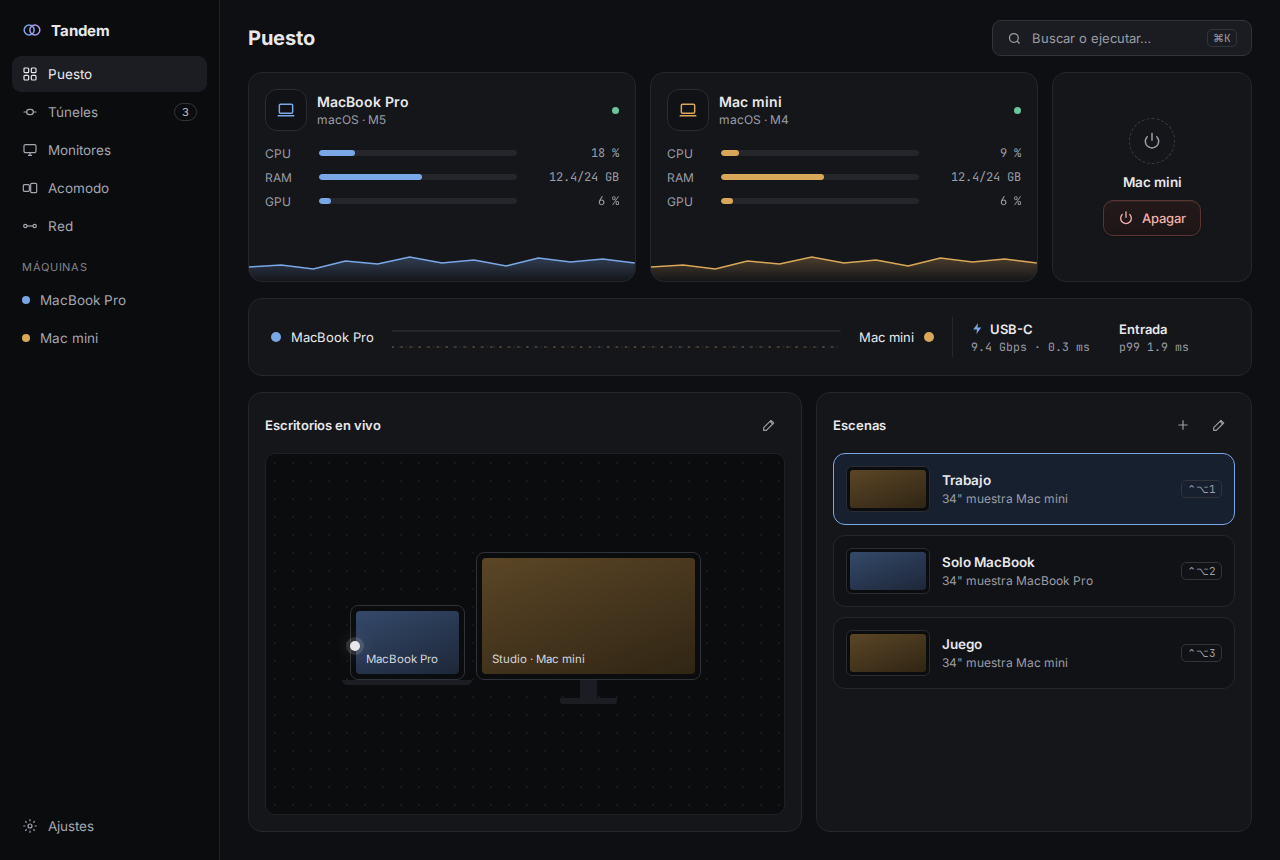
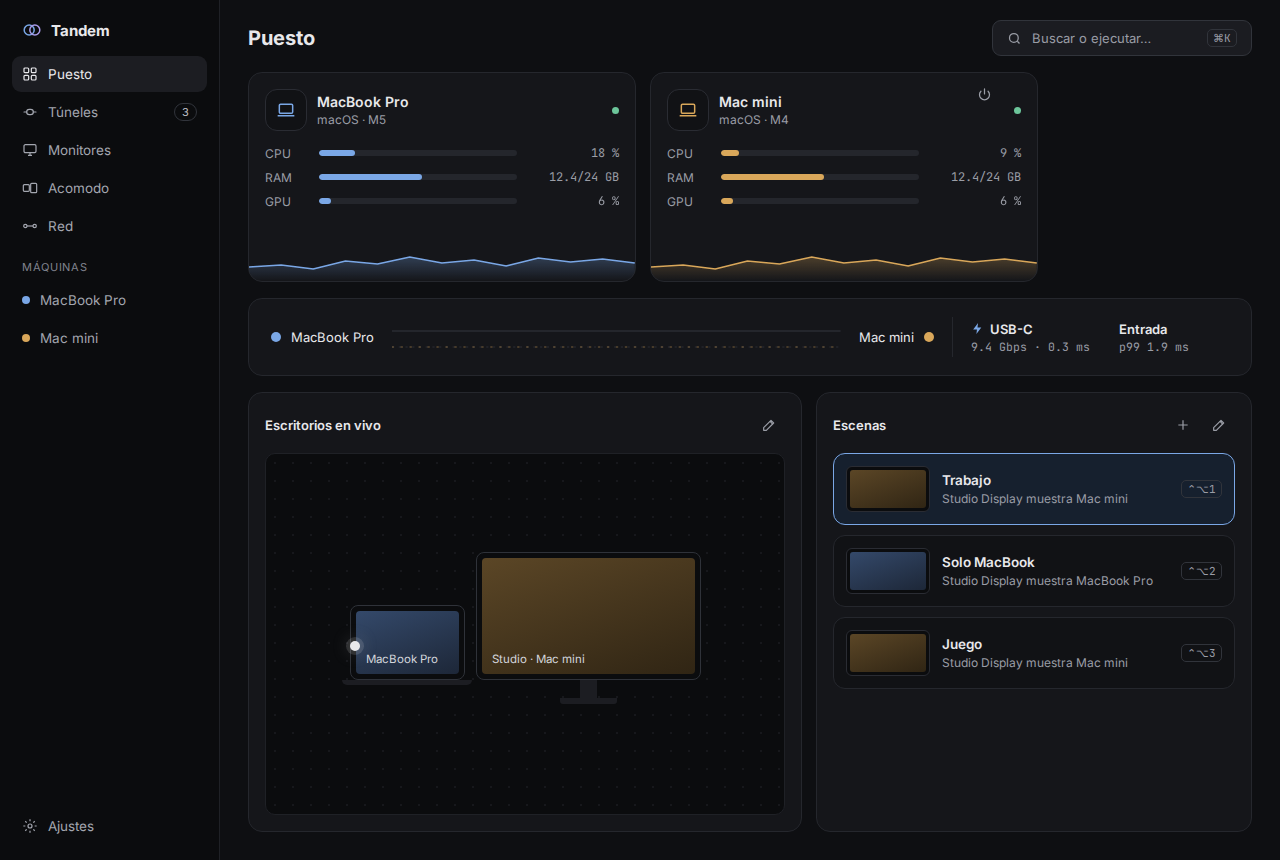
T-113: Encender/Apagar dentro de la tarjeta de la otra máquina, sin tarjetas tapadas; une avisos de la IPC; capturas

diff --git a/apps/tandem-ui/src/screens/Puesto.svelte b/apps/tandem-ui/src/screens/Puesto.svelte
@@ -77,6 +77,9 @@
     };
   });
 
+  // `V3-Puesto` escribe «34" muestra PC-Escritorio»; `V3-Monitores` (y `scenes.ts`) usan «→».
+  const sceneLine = (desc: string) => desc.replaceAll(" → ", " muestra ");
+
   // Energía de la otra máquina (transacción: el agente informa cada paso).
   const peer = $derived(list.find((m) => !m.here) ?? null);
   const showPower = $derived(peer !== null && store.can("power") && peer.power !== "lost");
@@ -120,9 +123,9 @@
         <!-- Fuera del enlace de la tarjeta (un botón dentro de un <a> no es válido), encima de su cabecera. -->
         <div class="pwr" role="group" aria-label="Energía de {peer.name}">
           {#if peer.power === "on"}
-            <Button icon="power" variant="danger" size="sm" disabled={pending !== null} onclick={() => power(false)}>{pending === "off" ? "Apagando…" : "Apagar"}</Button>
+            <Button icon="power" variant="ghost" size="sm" iconOnly label={pending === "off" ? "Apagando…" : "Apagar"} disabled={pending !== null} onclick={() => power(false)} />
           {:else}
-            <Button icon="power" size="sm" disabled={pending !== null || peer.power === "booting"} onclick={() => power(true)}>{pending === "on" || peer.power === "booting" ? "Encendiendo…" : "Encender"}</Button>
+            <Button icon="power" variant="ghost" size="sm" iconOnly label={pending === "on" || peer.power === "booting" ? "Encendiendo…" : "Encender"} disabled={pending !== null || peer.power === "booting"} onclick={() => power(true)} />
           {/if}
         </div>
       {/if}
@@ -194,7 +197,7 @@
           <button type="button" class="scene" class:act={on} aria-pressed={on} onclick={() => store.applyScene(s.id)}>
             <span class="srow">
               <span class="thumb"><div style="background:{wallOf(shows?.color ?? "#7aa7e6")}"></div></span>
-              <span class="stext"><b>{s.name}</b><span class="mut sd">{s.desc}</span></span>
+              <span class="stext"><b>{s.name}</b><span class="mut sd">{sceneLine(s.desc)}</span></span>
               <Kbd>{s.key}</Kbd>
             </span>
           </button>
@@ -217,9 +220,10 @@
   .sm {
     font-size: 12px;
   }
+  /* La tercera columna es el hueco de «Agregar máquina» (D1): el mockup reparte así el ancho. */
   .machines {
     display: grid;
-    grid-template-columns: minmax(0, 1fr) minmax(0, 1fr);
+    grid-template-columns: minmax(0, 1fr) minmax(0, 1fr) 200px;
     gap: 14px;
   }
   .mslot > :global(.card.mcard) {
@@ -545,7 +549,7 @@
   }
   .pwr {
     position: absolute;
-    top: 8px;
-    right: 44px;
+    top: 6px;
+    right: 38px;
   }
 </style>

diff --git a/apps/tandem-ui/scripts/shots-spec.ts b/apps/tandem-ui/scripts/shots-spec.ts
@@ -222,6 +222,12 @@ export const MONITORES: ShotSpec[] = [
   progresoShot("progreso-vuelta-atras", "fail", "vuelta-atras"),
 ];
 
+/** El hueco vacío que deja D1 en la fila de las tarjetas de máquina de `V3-Puesto`. */
+const NO_ADD_CARD: Ignore = { mockupSelector: 'a[href="F-AgregarHost.dc.html"].card', reason: "D1: sin tarjeta «Agregar máquina»" };
+
+/** D2: los escritorios a escala toman el color de cada máquina; con dos del mismo sistema el fondo no puede coincidir con el mockup. */
+const D2_DESKS: Ignore = { mockupSelector: 'div:has(> div[role="img"][aria-label^="A escala"])', reason: "D2: el color de las máquinas cambia el fondo de los escritorios" };
+
 export const SHOTS: ShotSpec[] = [
   {
     name: "puesto",
@@ -231,7 +237,7 @@ export const SHOTS: ShotSpec[] = [
     mockup: "V3-Puesto",
     width: W,
     height: H,
-    ignore: [NO_ADD_MACHINE, { mockupSelector: 'a[href="F-AgregarHost.dc.html"].card', reason: "D1: sin tarjeta «Agregar máquina»" }],
+    ignore: [NO_ADD_MACHINE, NO_ADD_CARD],
     regions: [{ ...SIDEBAR, min: SIDEBAR_GATE }],
     // T-113: toda la pantalla. Solo se tapa el hueco vacío que D1 quita («Agregar máquina»); la
     // app no tiene ninguna tarjeta oculta (Encender/Apagar van dentro de la tarjeta de la otra máquina).
@@ -239,8 +245,8 @@ export const SHOTS: ShotSpec[] = [
   },
   // D2 (alcance de T-126): el mismo puesto con dos Windows y con dos Mac. Los nombres y
   // colores cambian, así que no tienen umbral: sirven para ver cada combinación.
-  { name: "puesto-win-win", page: "index.html", query: "demo=win-win&still", hash: "#/puesto", mockup: "V3-Puesto", width: W, height: H, ignore: [NO_ADD_MACHINE], regions: [SIDEBAR] },
-  { name: "puesto-mac-mac", page: "index.html", query: "demo=mac-mac&still", hash: "#/puesto", mockup: "V3-Puesto", width: W, height: H, ignore: [NO_ADD_MACHINE], regions: [SIDEBAR] },
+  { name: "puesto-win-win", page: "index.html", query: "demo=win-win&still", hash: "#/puesto", mockup: "V3-Puesto", width: W, height: H, ignore: [NO_ADD_MACHINE, NO_ADD_CARD, D2_DESKS], regions: [SIDEBAR] },
+  { name: "puesto-mac-mac", page: "index.html", query: "demo=mac-mac&still", hash: "#/puesto", mockup: "V3-Puesto", width: W, height: H, ignore: [NO_ADD_MACHINE, NO_ADD_CARD, D2_DESKS], regions: [SIDEBAR] },
   { name: "tuneles", page: "index.html", query: DEMO, hash: "#/tuneles", mockup: "V3-Computo", width: W, height: H, ignore: [NO_ADD_MACHINE], regions: [SIDEBAR] },
   ...MONITORES,
   ...ACOMODO,

diff --git a/apps/tandem-ui/src/lib/store/live.ts b/apps/tandem-ui/src/lib/store/live.ts
@@ -279,13 +279,7 @@ export class LiveSource implements Source {
         if (this.last.kind === "connected") push(this.last);
       }),
     ).catch(() => {});
-    // Los avisos del cursor se reparten a quien los pidió; los demás avisos no son de esta fuente.
-    void Promise.resolve(
-      this.bridge.onNotice?.((n) => {
-        if (n.kind !== "cursor" && n.kind !== "crossed") return;
-        for (const f of [...this.cursorListeners]) f(n);
-      }),
-    ).catch(() => {});
+    this.bindNotices().catch(() => {});
     push(await this.bridge.snapshot());
   }
 
@@ -333,14 +327,21 @@ export class LiveSource implements Source {
   }
 
   private txnListeners = new Set<(e: TxnView, at?: number, origin?: { title: string; doneText: string }) => void>();
-  private txnBound: Promise<void> | null = null;
+  /** El evento de Tauri no se puede dejar de oír: se oye una vez y se reparte (transacciones y cursor). */
+  private noticesBound: Promise<void> | null = null;
+
+  private bindNotices(): Promise<void> {
+    this.noticesBound ??= Promise.resolve(
+      this.bridge.onNotice?.((n) => {
+        if (n.kind === "txn") for (const l of this.txnListeners) l(n.event);
+        else if (n.kind === "cursor" || n.kind === "crossed") for (const f of [...this.cursorListeners]) f(n);
+      }),
+    );
+    return this.noticesBound;
+  }
 
   async watchTxn(onEvent: (e: TxnView, at?: number, origin?: { title: string; doneText: string }) => void): Promise<() => void> {
-    // El evento de Tauri no se puede dejar de oír: se oye una vez y se reparte.
-    this.txnBound ??= this.bridge.onNotice((n) => {
-      if (n.kind === "txn") for (const l of this.txnListeners) l(n.event);
-    });
-    await this.txnBound;
+    await this.bindNotices();
     this.txnListeners.add(onEvent);
     return () => {
       this.txnListeners.delete(onEvent);

diff --git a/apps/tandem-ui/src/lib/store/types.ts b/apps/tandem-ui/src/lib/store/types.ts
@@ -7,11 +7,7 @@
 
 import type { Arrangement, LayoutView } from "../acomodo";
 import type { CrossSample } from "../crossing";
-<<<<<<< HEAD
-import type { Bindings, Machine, MonitorInput, Os, PairingView, PeerView, Permission, SceneJson, SetupView, ShortcutsView, TxnView } from "../model";
-=======
-import type { Bindings, Machine, Notice, Os, PairingView, PeerView, Permission, SetupView, ShortcutsView } from "../model";
->>>>>>> 3dd3e3d (T-113: pantalla Puesto con escritorios a escala, cursor en vivo y energía en la tarjeta de la otra máquina)
+import type { Bindings, Machine, MonitorInput, Notice, Os, PairingView, PeerView, Permission, SceneJson, SetupView, ShortcutsView, TxnView } from "../model";
 import type { PermissionState } from "../permissions";
 import type { UpdateView } from "../updates";
 
@@ -306,14 +302,10 @@ export type Topic = "machines" | "resources" | "link" | "network" | "tunnels" | 
 export const ALL_TOPICS: Topic[] = ["machines", "resources", "link", "network", "tunnels", "scenes", "monitors"];
 
 /** Lo que una fuente puede o no hacer todavía. */
-<<<<<<< HEAD
-export type Capability = "scenes" | "modules" | "power" | "measure" | "crossing" | "machine" | "monitors" | "forget";
-=======
-export type Capability = "scenes" | "modules" | "power" | "measure" | "crossing" | "machine" | "cursor";
+export type Capability = "scenes" | "modules" | "power" | "measure" | "crossing" | "machine" | "monitors" | "forget" | "cursor";
 
 /** Lo que llega con el cursor en vivo (T-128): su posición o un cruce de borde. */
 export type CursorEvent = Extract<Notice, { kind: "cursor" | "crossed" }>;
->>>>>>> 3dd3e3d (T-113: pantalla Puesto con escritorios a escala, cursor en vivo y energía en la tarjeta de la otra máquina)
 
 export type PairActionKind = "start_pairing" | "confirm_pairing" | "cancel_pairing" | "unpair";
 

diff --git a/apps/tandem-ui/src/screens/puesto.test.ts b/apps/tandem-ui/src/screens/puesto.test.ts
@@ -110,7 +110,9 @@ describe("contra el agente (IPC)", () => {
         { machine: "b", id: "g34", x: 0, y: 0, width: 3440, height: 1440, scale: 1 },
       ],
       arrangement: { a_side: "left", align: "end" },
+      scenes: [],
     },
+    monitors: [],
     state: { on: { a: true, b: true } },
     peer: { kind: "paired", name: "Taller", link: "usb4" },
     pairing: { kind: "idle" },

diff --git a/docs/DECISIONS.md b/docs/DECISIONS.md
@@ -136,3 +136,4 @@ Formato: `- AAAA-MM-DD · T-xxx · decisión · razón`.
 - 2026-11-17 · T-104 · La comprobación de la ACL de la tarea elevada es una lista blanca sobre toda la ruta: `launcher.ancestors()` hasta la raíz, y cada tramo tiene que ser de dueño SYSTEM, Administrators o TrustedInstaller, no ser punto de reanálisis (junction/symlink) y no tener ningún ACE de permiso aplicable (los de solo herencia no cuentan) con escritura (`FILE_WRITE_DATA`/`ADD_FILE`, `FILE_APPEND_DATA`/`ADD_SUBDIRECTORY`, `DELETE_CHILD`, `DELETE`, `WRITE_DAC`, `WRITE_OWNER`, `GENERIC_WRITE`, `GENERIC_ALL`) de otro SID. La política es código portable (`install/acl.rs`, probada en Linux); `WinAcl` solo lee dueño y DACL · la lista negra (Users, Everyone, usuario actual) no veía `INTERACTIVE`, `Power Users`, otros usuarios ni al dueño (WRITE_DAC implícito), y quien puede borrar o renombrar una carpeta padre sustituye el ejecutable (revisión de #90).
 - 2026-11-17 · T-104 · La ACL de la tarea elevada se juzga con dos máscaras: el ejecutable y su carpeta contenedora con la completa (incluye `FILE_APPEND_DATA`/`ADD_SUBDIRECTORY`, por el plantado de DLL), y los demás ancestros con una reducida (`DELETE_CHILD`, `DELETE`, `WRITE_DAC`, `WRITE_OWNER`, `GENERIC_ALL`, `GENERIC_WRITE`) · crear archivos o subcarpetas en un ancestro no reemplaza un hijo que ya existe, y `C:\` trae de fábrica `Authenticated Users:(AD)`, con lo que la completa impediría registrar la tarea en cualquier Windows.
 - 2026-11-17 · T-113 · (capitán) No hay tarjeta de energía aparte: Encender y Apagar van dentro de la tarjeta de la otra máquina, con el estilo de los botones del mockup, y esa tarjeta se compara. En `V3-Puesto` solo se tapa el hueco vacío que quita D1 («Agregar máquina») · una tarjeta nueva de la app, tapada, nunca se compararía con nada.
+- 2026-11-17 · T-113 · La descripción de cada escena en Puesto dice «34" muestra PC-Escritorio» (como `V3-Puesto`), y en Monitores sigue «34" → PC-Escritorio» (como `V3-Monitores`); la conversión es solo de presentación en Puesto · los dos mockups se contradicen y cada pantalla tiene que llegar a su umbral. La rejilla de las tarjetas de máquina conserva la tercera columna de 200 px (el hueco de «Agregar máquina», D1) para repartir el ancho como el mockup.

diff --git a/docs/tasks/T-113.md b/docs/tasks/T-113.md
@@ -31,7 +31,7 @@ DESIGN §12. Mockups de referencia (fuente de verdad visual e interactiva): `V3-
 
 ## Notas
 
-- Similitud de `V3-Puesto` (toda la pantalla; solo se tapa el hueco vacío de «Agregar máquina», D1): PENDIENTE_CIFRAS. Capturas en `docs/screenshots/v03/`.
+- Similitud de `V3-Puesto` (toda la pantalla; solo se tapa el hueco vacío de «Agregar máquina», D1): 99.99 %, peor cuadro 98.4 %. Capturas en `docs/screenshots/v03/`.
 - Encender y Apagar de la otra máquina van dentro de su tarjeta (decisión del capitán, `docs/DECISIONS.md`); no hay tarjeta de energía aparte. El panel de progreso paso a paso (`F-Transacciones`) es de T-116; aquí el botón muestra «Encendiendo…» / «Apagando…» mientras el agente responde.
 - El pulso del enlace sigue los eventos por segundo del cursor en vivo (el agente aún no manda un contador propio de tráfico); `V3-Puesto` solo dibuja p99 de entrada, así que no se agrega p50.
 - Las medidas de los escritorios salen de `draw` del acomodo con otro lienzo; el mockup dibuja a mano el portátil un 0,7 % más bajo y el monitor un 0,5 % más alto (constantes en `lib/puesto.ts`).
